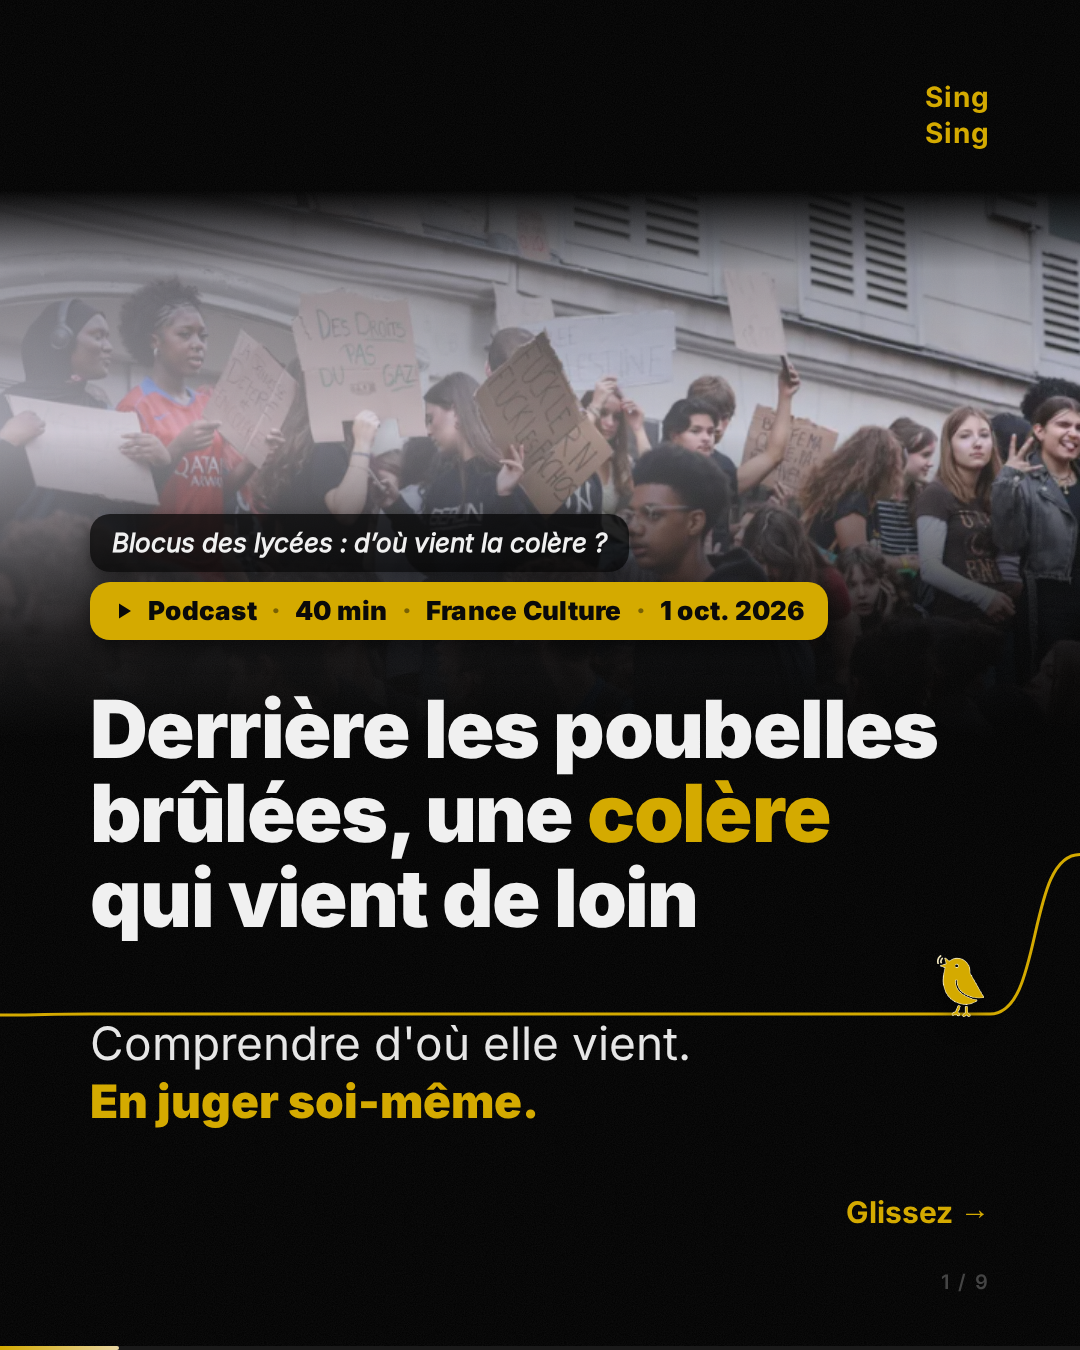
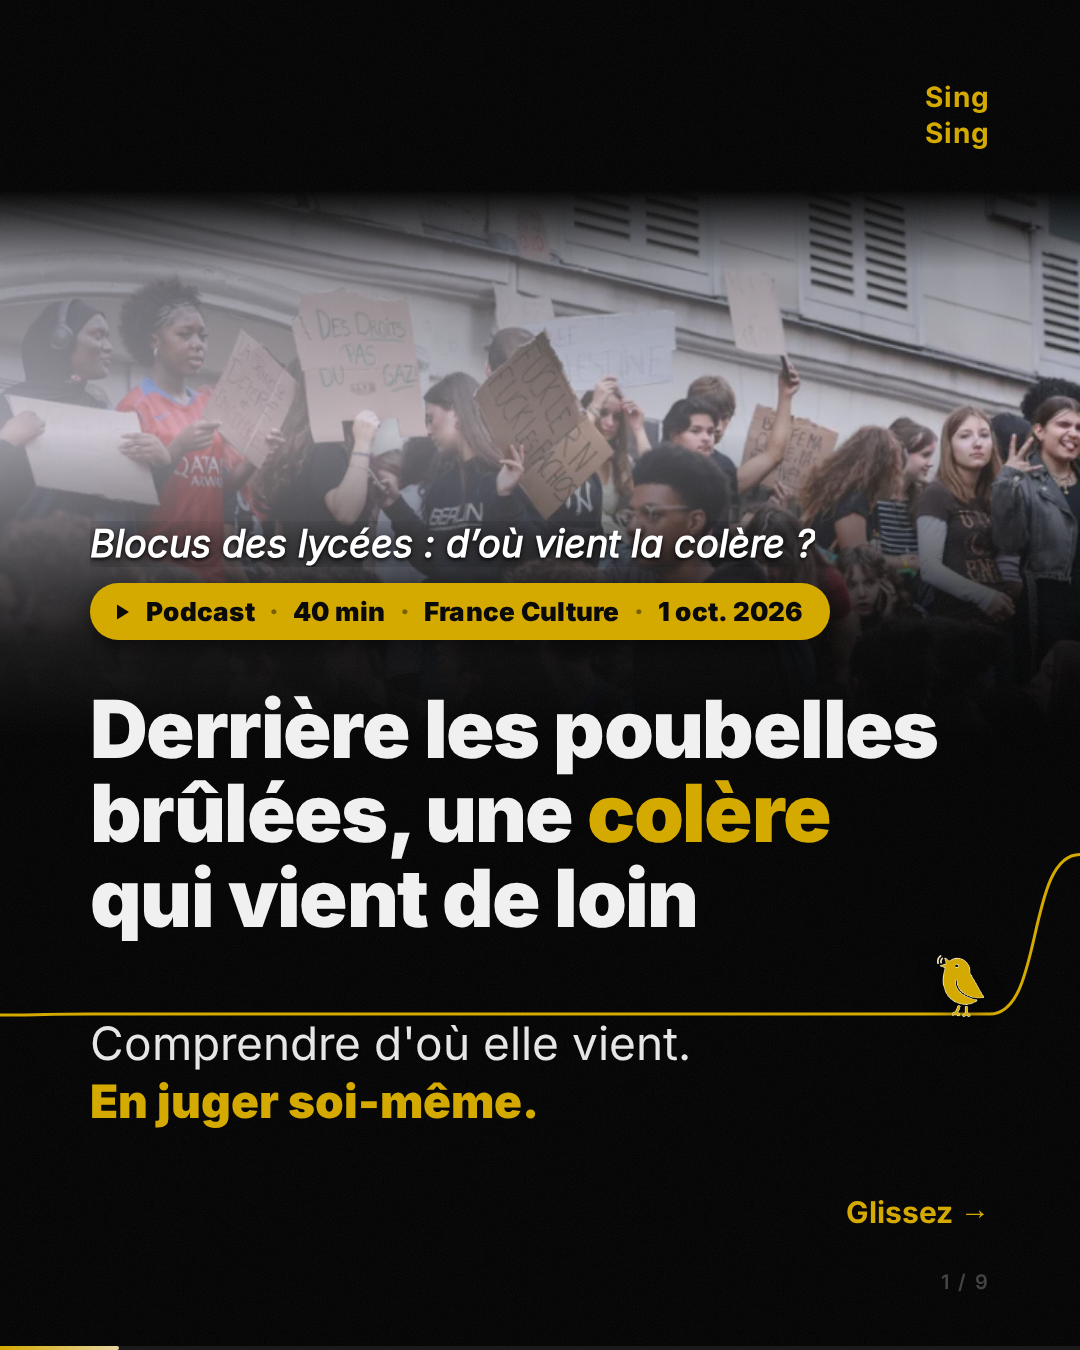
chore(samples): podcast_1 slide 1 title restyled

Changed region(s): [[0.0611, 0.3733, 0.7639, 0.4667]]

diff --git a/samples/podcasts/podcast_1/instagram_carousel_optimized/html/01_hook.html b/samples/podcasts/podcast_1/instagram_carousel_optimized/html/01_hook.html
@@ -439,15 +439,13 @@ body {
 .shade { position: absolute; inset: 0; z-index: -2;
   background: linear-gradient(to bottom, #000 0, #000 190px, rgba(0,0,0,.35) 270px,
               rgba(0,0,0,.1) 32%, rgba(0,0,0,.88) 47%, #000 55%); }
-/* On the full-bleed slide, the photo's caption: the source's own title, then
-   the pill, stacked at the photo's bottom-left — two labels of one family, same
-   shape, size and padding; the title dark and italic, the pill gold. (On the
-   card slide the title is inside the capture and the pill stays above it.) */
+/* On the full-bleed slide, the photo's caption at its bottom-left: the source's
+   own title, set larger, in italic, straight on the photo; then the pill.
+   (On the card slide the title is inside the capture and the pill stays above it.) */
 .src-block { position: absolute; left: 90px; bottom: 710px; right: 90px; display: flex; flex-direction: column;
-  align-items: flex-start; gap: 10px; }
-.slide.bleed .src-pill, .src-title { border-radius: 20px; padding: 12px 22px; font-size: 26px; line-height: 1.3; }
-.src-title { max-width: 900px; font-style: italic; font-weight: 600; color: #f0f0f0; background: rgba(0,0,0,.72);
-  box-shadow: 0 8px 22px rgba(0,0,0,.55);
+  align-items: flex-start; gap: 16px; }
+.src-title { max-width: 900px; font-size: 38px; font-style: italic; font-weight: 700; line-height: 1.2; color: #fff;
+  text-shadow: 0 2px 4px rgba(0,0,0,.9), 0 0 24px rgba(0,0,0,.85);
   display: -webkit-box; -webkit-line-clamp: 2; -webkit-box-orient: vertical; overflow: hidden; }
 .slide.bleed .cover-head { margin-top: auto; }
 /* — The title, then the promise that continues it. — */
